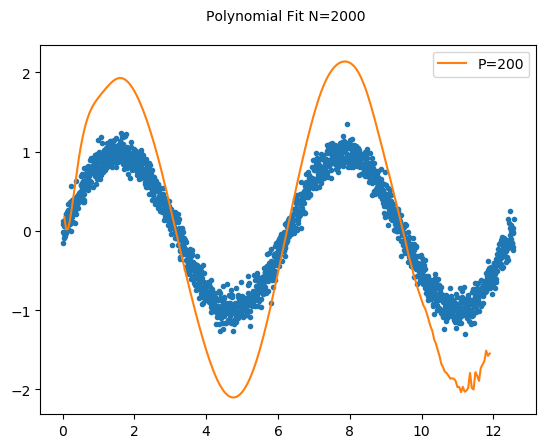
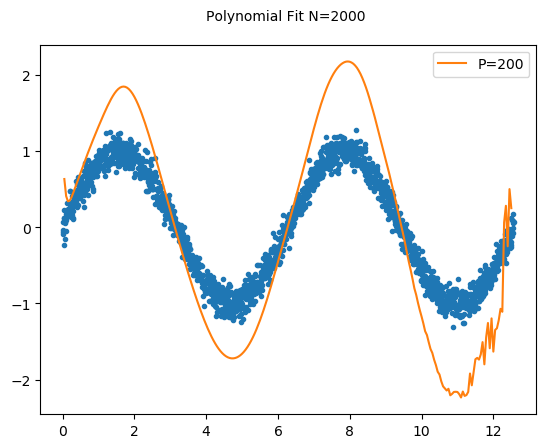
Update images and plotting ranges.

diff --git a/Tarea_2/compare.py b/Tarea_2/compare.py
@@ -35,7 +35,13 @@ def plot_fit(X, Y, polynomial_ls, polynomial_scipy,
              degree, size, time_ls, time_scipy):
     # Plot fit from least squares
     epsilon = 0.05
-    x_range = np.arange(epsilon, 12 - epsilon, epsilon)
+
+    # Change ploting range in case when fit isn't good
+    if degree == 100 and size == 100:
+        x_range = np.arange(1 + epsilon, 12 - epsilon, epsilon)
+    else:
+        x_range = np.arange(epsilon, 4 * np.pi - epsilon, epsilon)
+
     y_range = np.zeros(len(x_range), dtype=np.float)
 
     for idx in range(0, len(x_range)):
@@ -58,7 +64,7 @@ def plot_fit(X, Y, polynomial_ls, polynomial_scipy,
                         'Execution Time=%f s' % time_scipy, fontsize=10)
     plt.plot(X, Y, ".")
     plt.plot(x_range, y_range_scipy)
-    plt.savefig('comparison-Deg=%d,N=%d' % (degree, size),
+    plt.savefig('comparison-P=%d,N=%d' % (degree, size),
                 bbox_inches='tight')
     plt.show()
 
@@ -66,7 +72,6 @@ def plot_fit(X, Y, polynomial_ls, polynomial_scipy,
 def plot_multiple_fit(X, Y, polynomial_fit_dictionary):
     # Plot fit from least squares
     epsilon = 0.05
-    x_range = np.arange(epsilon, 12 - epsilon, epsilon)
 
     # Plot data
     plt.plot(X, Y, ".")
@@ -74,6 +79,12 @@ def plot_multiple_fit(X, Y, polynomial_fit_dictionary):
     # Iterate through dictionary
     for key in polynomial_fit_dictionary.keys():
         (degree, size) = key
+
+        # Change ploting range in case when fit isn't good
+        if degree == 100 and size == 100:
+            x_range = np.arange(1 + epsilon, 12 - epsilon, epsilon)
+        else:
+            x_range = np.arange(epsilon, 4 * np.pi - epsilon, epsilon)
 
         # Evaluate polynomial
         y_range = np.zeros(len(x_range), dtype=np.float)
